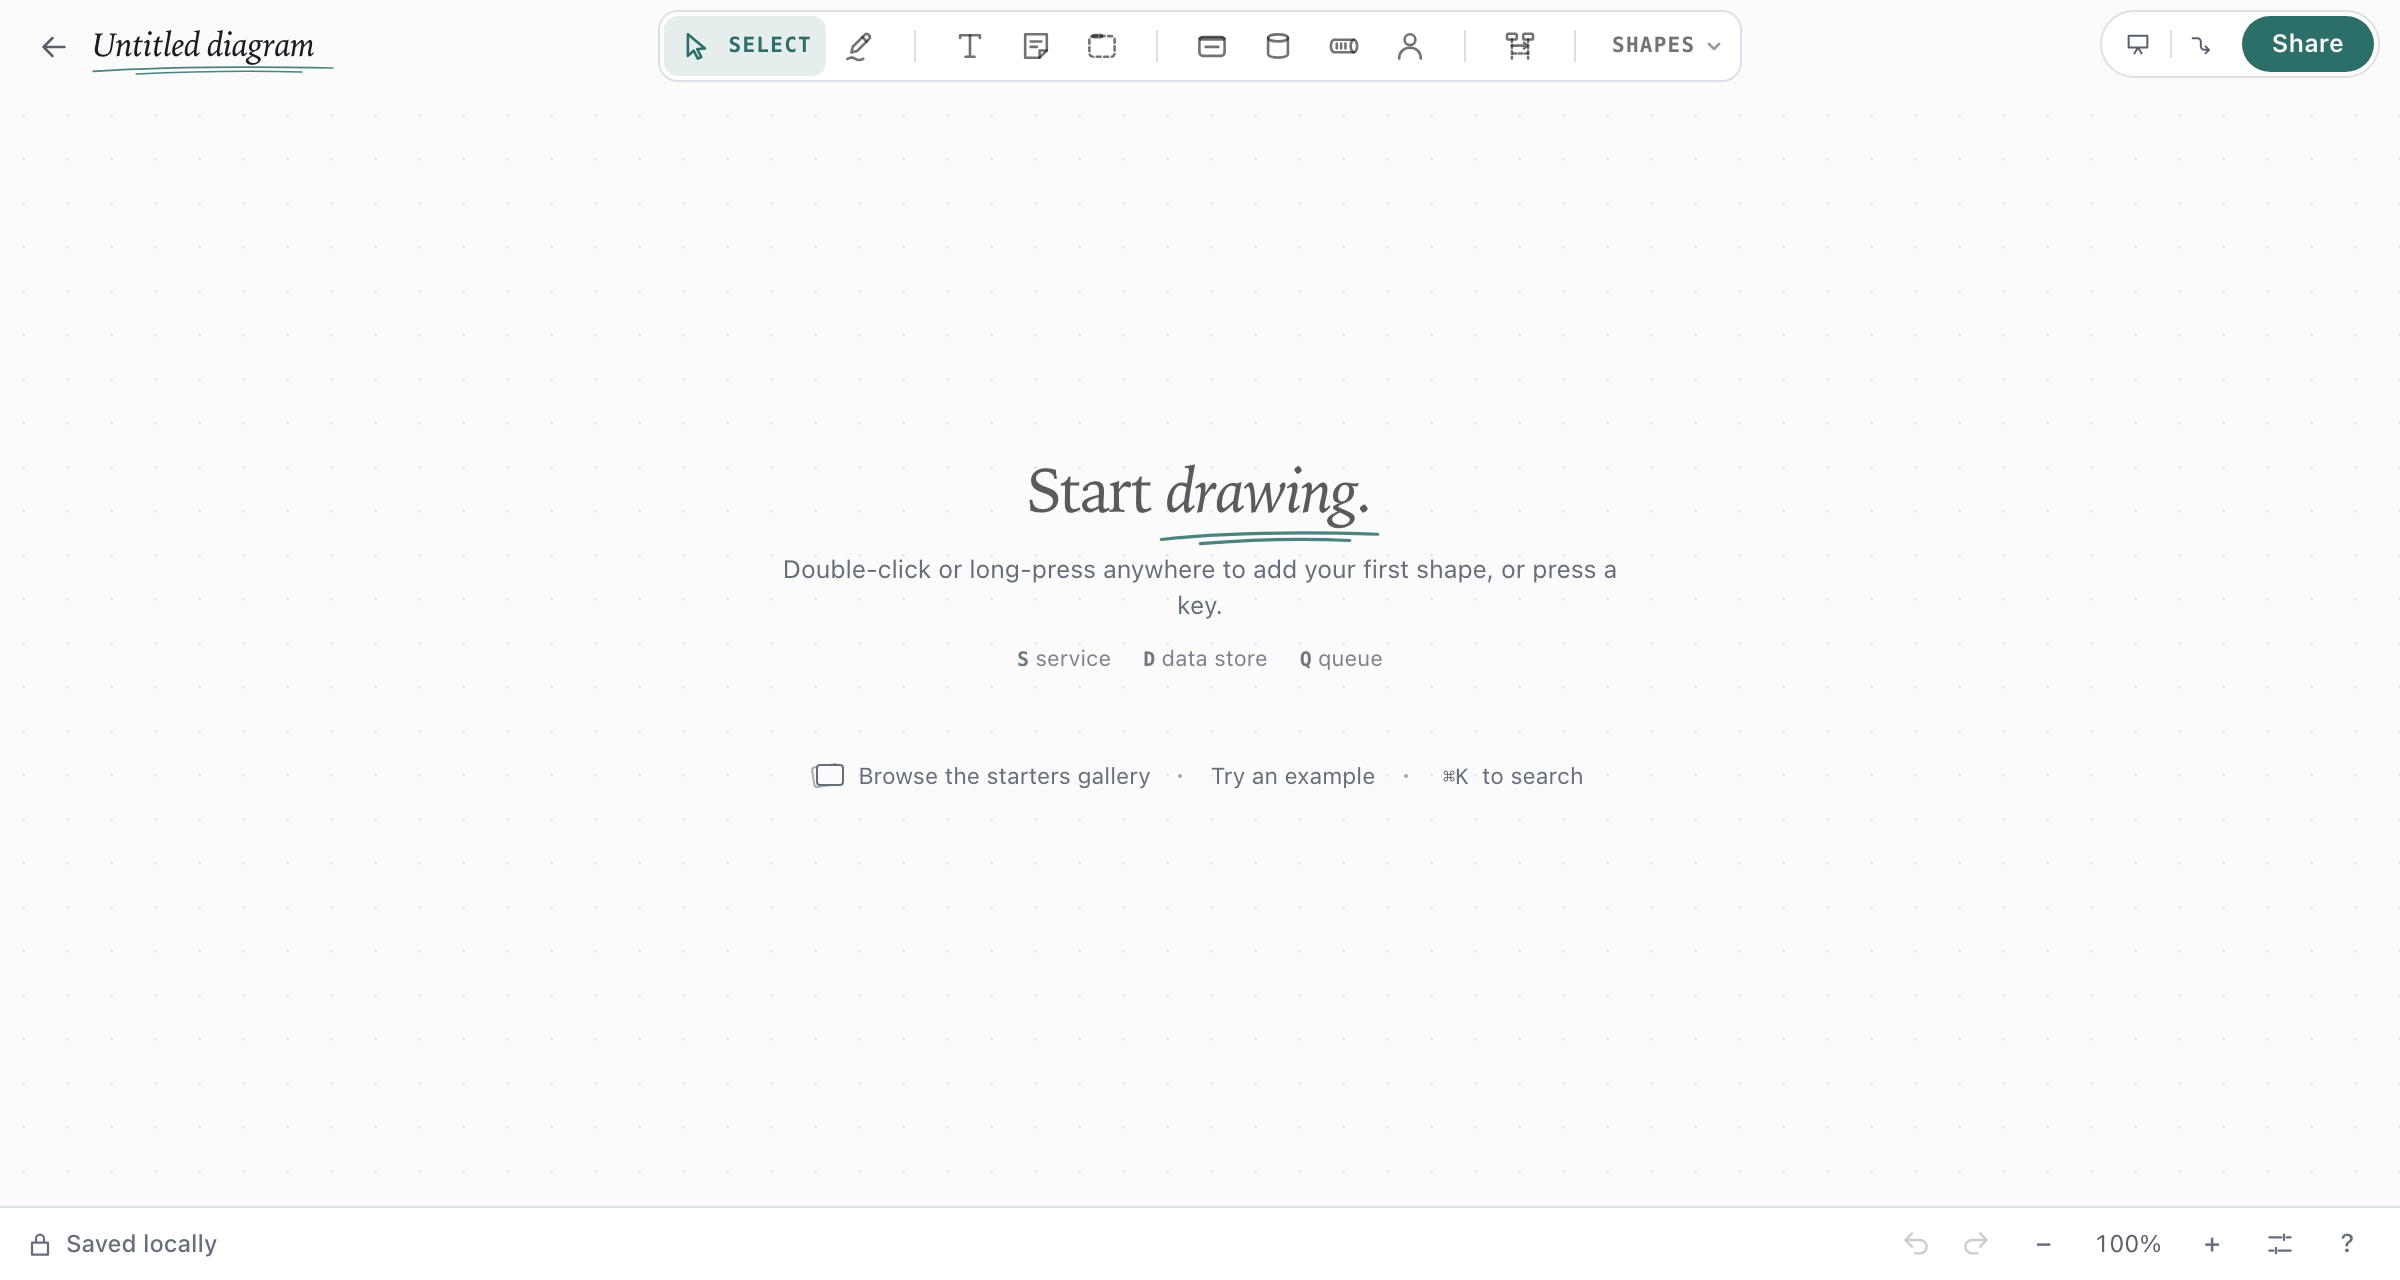
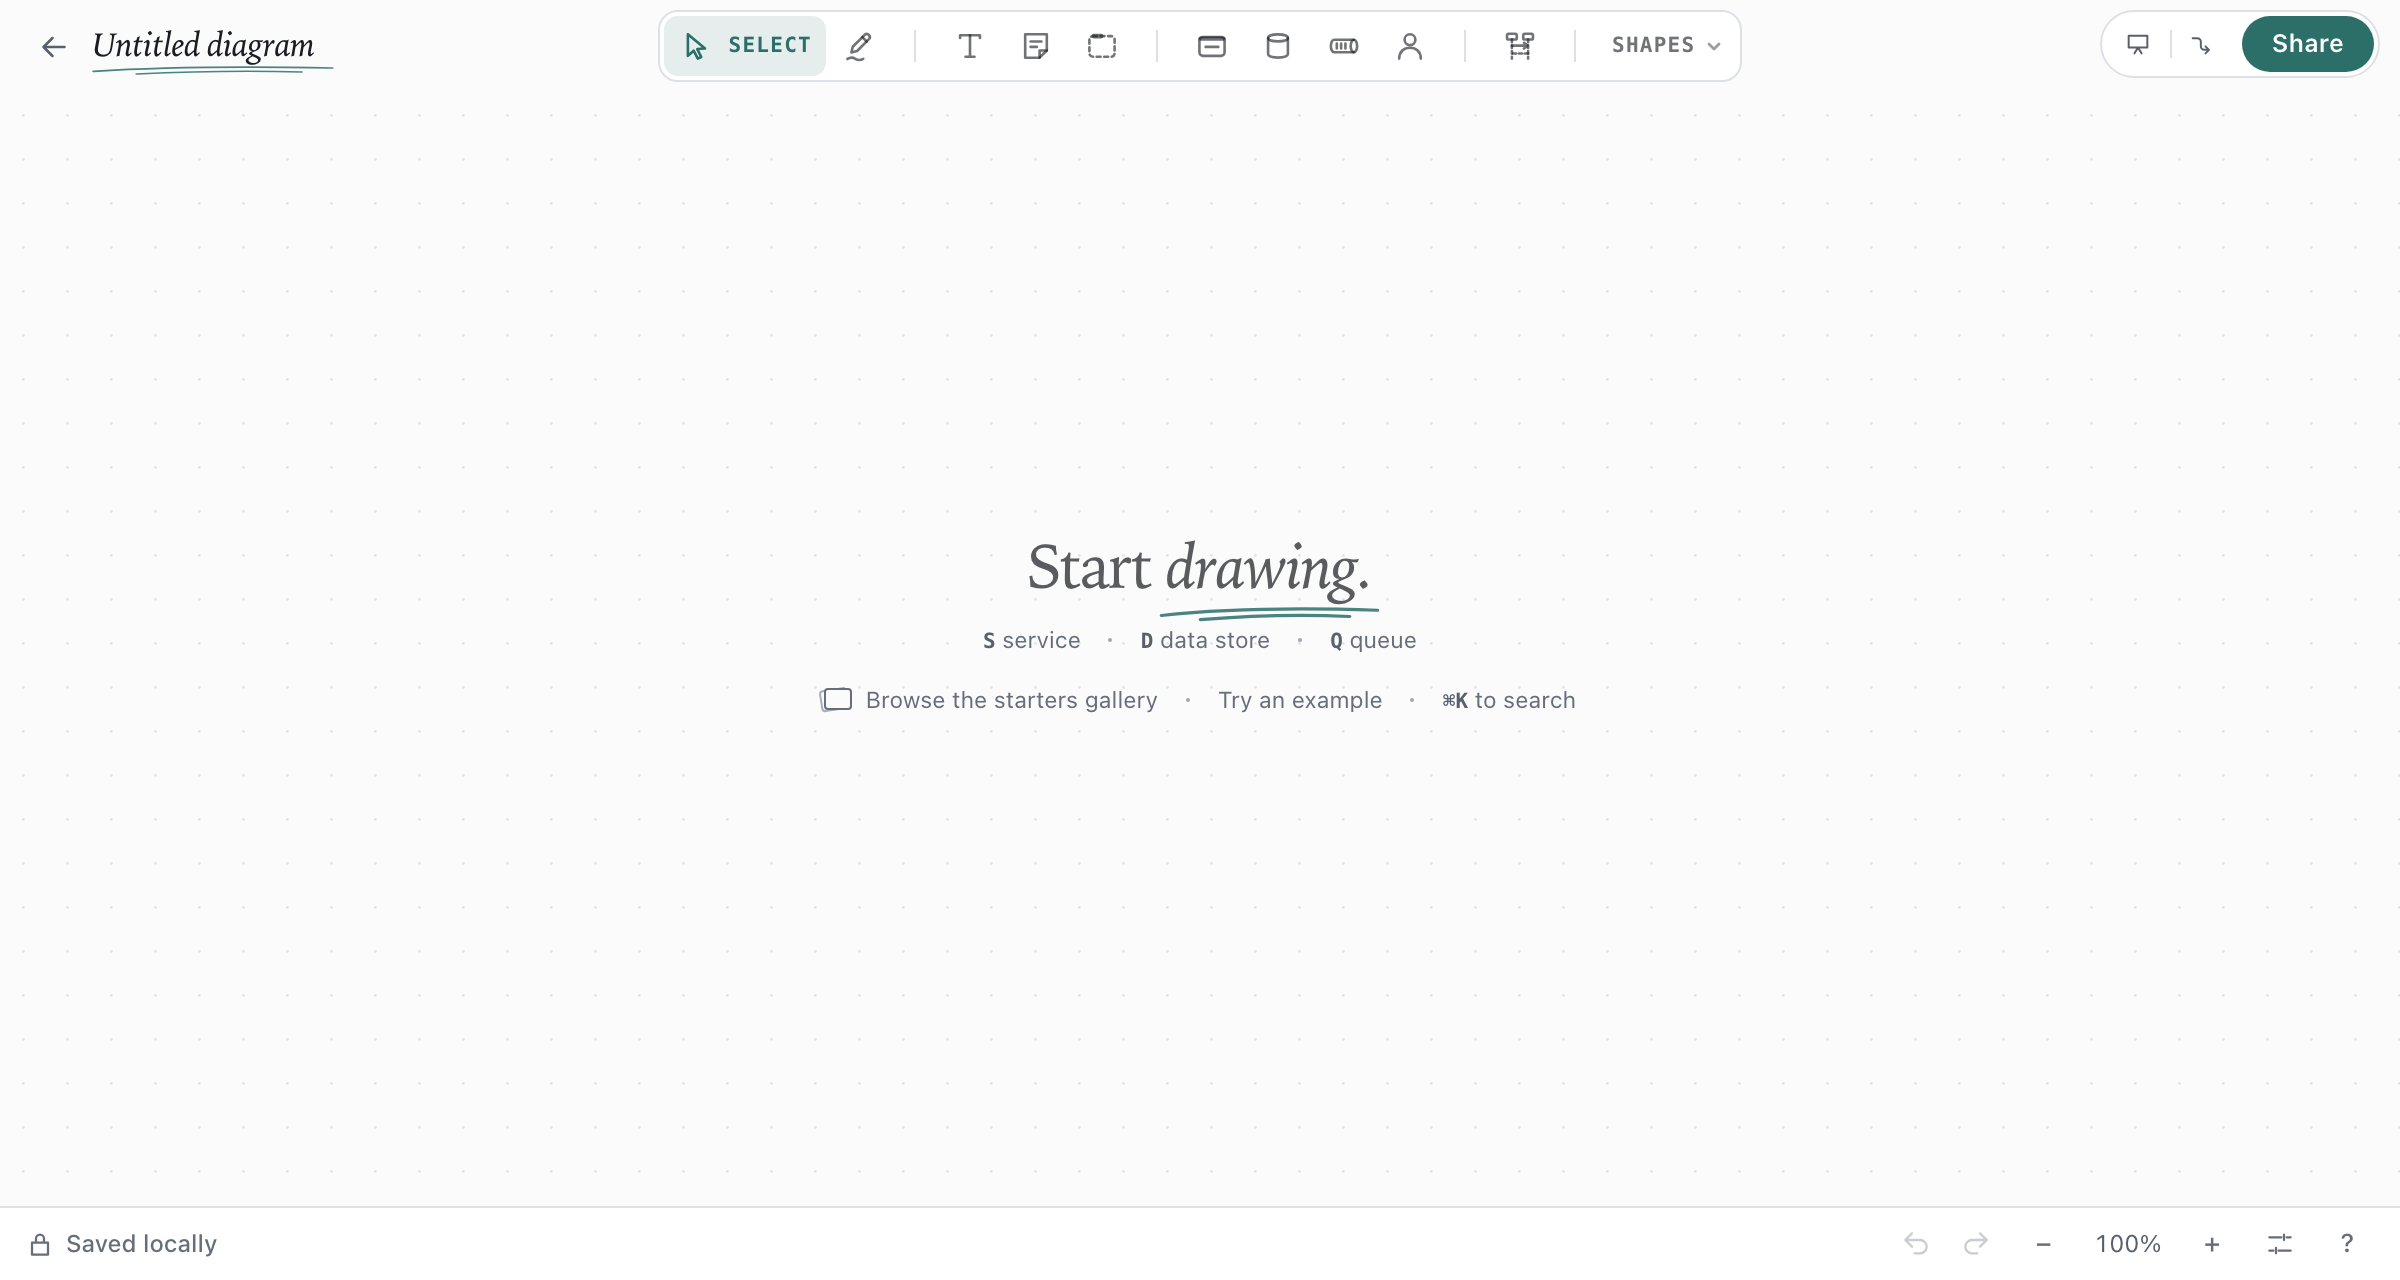
Blank canvas: drop the double-click sentence and set the key and link rows alike
Remove "Double-click or long-press anywhere to add your first shape, or press a
key." The Getting started guide still teaches the gestures.

The S/D/Q row and the links row now read as one block: the same 11.5 px type,
a dot between items, one key style for the letters and the search chord, and
the links sit 6 px under the keys when no starter drawings are shown instead
of 36 px away. Guide screenshot regenerated.

diff --git a/src/styles/canvas.css b/src/styles/canvas.css
@@ -4287,42 +4287,48 @@
   line-height: 1.45;
 }
 
-.dc-empty-start .dc-empty-hint {
-  margin-top: 12px;
-  color: var(--dc-text-faint);
-  font-size: 12.5px;
-}
-
-/* Three small annotations teach the first keystroke without resembling another toolbar. */
+/* Three small annotations teach the first keystroke without resembling another toolbar. They are set
+   exactly like the line of links beneath (`.dc-empty-footer`): the same size, the same dot between
+   items, the same key style, so the two read as one quiet block rather than two different notes. */
 .dc-empty-keys {
   display: flex;
   flex-wrap: wrap;
+  align-items: center;
   justify-content: center;
-  gap: 4px 16px;
+  gap: 4px 8px;
   margin: 8px 0 0;
   color: var(--dc-text-faint);
-  font-size: 11px;
-  line-height: 18px;
-  opacity: 0.85;
+  font-size: 11.5px;
+  line-height: 20px;
 }
 
 .dc-empty-key {
+  padding: 0 6px;
   white-space: nowrap;
 }
 
-.dc-empty-keys kbd {
+/* The key in both lines: the letter or chord is the part to act on, so it is a step stronger than
+   the word beside it. */
+.dc-empty-keys kbd,
+.dc-empty-shortcut kbd {
   min-width: 0;
   padding: 0;
   border: 0;
   background: none;
   box-shadow: none;
   color: var(--dc-text-muted);
-  font: 600 10px/1 var(--dc-mono);
+  font: 600 10.5px/1.4 var(--dc-mono);
 }
 
 .dc-empty-pick {
   width: 100%;
   margin-top: 36px;
+}
+
+/* No starter drawings (not loaded, or none chosen): the line of links follows the keys closely, as
+   part of the same block, instead of floating a whole section away from them. */
+.dc-empty-pick:not(:has(.dc-empty-rows)) {
+  margin-top: 6px;
 }
 
 /* Only above the starter drawings, once they are loaded: a few lowercase words, no rule across the
@@ -4504,15 +4510,6 @@
   line-height: 20px;
 }
 
-.dc-empty-shortcut kbd {
-  padding: 0;
-  border: 0;
-  background: none;
-  box-shadow: none;
-  color: var(--dc-text-faint);
-  font: 500 10.5px/1.4 var(--dc-mono);
-}
-
 .dc-starter-picker-section + .dc-starter-picker-section {
   margin-top: 24px;
 }
@@ -4665,13 +4662,13 @@
   font-size: 24px;
   }
 
-  .dc-empty-start .dc-empty-hint {
-  margin-top: 10px;
-  font-size: 12px;
-  }
-
   .dc-empty-pick {
   margin-top: 20px;
+  }
+
+  /* The keys are gone here, so the links follow the title itself. */
+  .dc-empty-pick:not(:has(.dc-empty-rows)) {
+  margin-top: 10px;
   }
 
   .dc-empty .dc-empty-pick-label {

diff --git a/tests/empty-state.test.tsx b/tests/empty-state.test.tsx
@@ -126,14 +126,15 @@ describe('EmptyState', () => {
     expect(screen.queryByRole('group', { name: 'Suggested starters' })).not.toBeInTheDocument();
   });
 
-  it('reads the blank-canvas hint out as a polite status, naming the keys that really exist', () => {
+  it('reads the blank-canvas keys out as a polite status, naming the keys that really exist', () => {
     const { container } = renderEmpty();
     const hint = container.querySelector('.dc-empty-start')!;
     // Real text for assistive technology, not hidden: it is the only instruction a blank canvas carries.
     expect(hint.closest('[aria-hidden="true"]')).toBeNull();
     expect(hint).toHaveAttribute('role', 'status');
-    // Mouse, touch and keyboard, with the letters the creation shortcuts actually use (S, D, Q).
-    expect(hint).toHaveTextContent(/double-click or long-press/i);
+    // The sentence about double-click and long-press is gone from the canvas on purpose (the Getting
+    // started guide teaches those gestures); what stays are the letters the creation shortcuts use.
+    expect(hint).not.toHaveTextContent(/double-click|long-press/i);
     const keys = [...hint.querySelectorAll('kbd')].map((key) => key.textContent);
     expect(keys).toEqual(['S', 'D', 'Q']);
     for (const letter of keys) expect(ALL_PRESETS.some((preset) => preset.shortcut === letter)).toBe(true);

diff --git a/src/ui/Editor/EmptyState.tsx b/src/ui/Editor/EmptyState.tsx
@@ -152,10 +152,11 @@ function EmptyCanvas({ onAddStarter, leaving }: EmptyStateProps & { leaving: boo
             accessibility tree) while the first-shape chooser is open, which is drawn over it. */}
         <div className="dc-empty-start" role="status" data-chooser={chooserOpen ? 'true' : undefined}>
           <p className="dc-empty-title">Start <em><InkedWords>drawing.</InkedWords></em></p>
-          <p className="dc-empty-hint">Double-click or long-press anywhere to add your first shape, or press a key.</p>
           <p className="dc-empty-keys">
             <span className="dc-empty-key"><kbd>S</kbd> service</span>
+            <span className="dc-empty-dot" aria-hidden="true" />
             <span className="dc-empty-key"><kbd>D</kbd> data store</span>
+            <span className="dc-empty-dot" aria-hidden="true" />
             <span className="dc-empty-key"><kbd>Q</kbd> queue</span>
           </p>
         </div>

diff --git a/e2e/chrome-layout.spec.ts b/e2e/chrome-layout.spec.ts
@@ -108,9 +108,9 @@ test.describe('keyboard and assistive technology', () => {
     await expect(page.locator('.dc-node')).toHaveCount(1);
   });
 
-  test('the blank-canvas hint is read out, and gets out of the way of the chooser it leads to', async ({ page }) => {
+  test('the blank-canvas keys are read out, and get out of the way of the chooser they lead to', async ({ page }) => {
     await newCanvas(page, 'Blank canvas hint');
-    const hint = page.getByRole('status').filter({ hasText: 'Double-click or long-press' });
+    const hint = page.getByRole('status').filter({ hasText: 'Start drawing' });
     await expect(hint).toBeVisible();
     await expect(hint).toContainText('S');
     await expect(hint).toContainText('D');

diff --git a/CHANGELOG.md b/CHANGELOG.md
@@ -151,7 +151,7 @@ this file. See [Release notes](docs/reference/releases.md#release-notes).
 - **Easier on touch screens and for screen readers** — Buttons, popovers, menus and the status bar
   are at least 40 px on touch screens, the status bar wraps on phones and whenever a save needs
   attention (a narrow desktop window keeps its one row), the Flows panel is a tree,
-  the blank-canvas hint is read aloud and mentions long-press and `S`, `D`, `Q`, and the canvas and
+  the blank canvas reads its `S`, `D`, `Q` keys aloud, and the canvas and
   Quick Connect rows show where focus is. Zoom, status chips and flow-bar buttons show their keys,
   danger and faint text have more contrast, and one name is used for each thing (spotlight, shape,
   connector, reply line).
